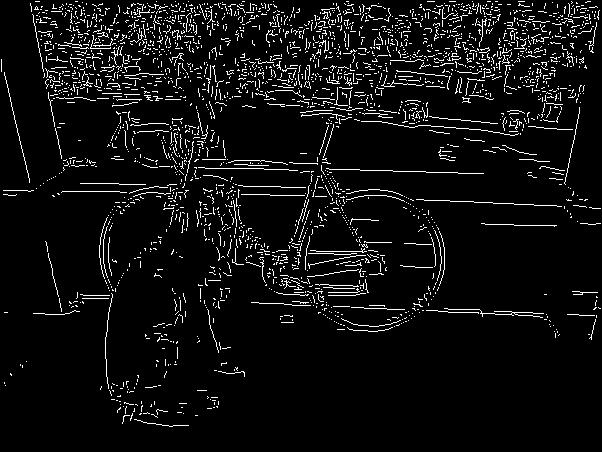
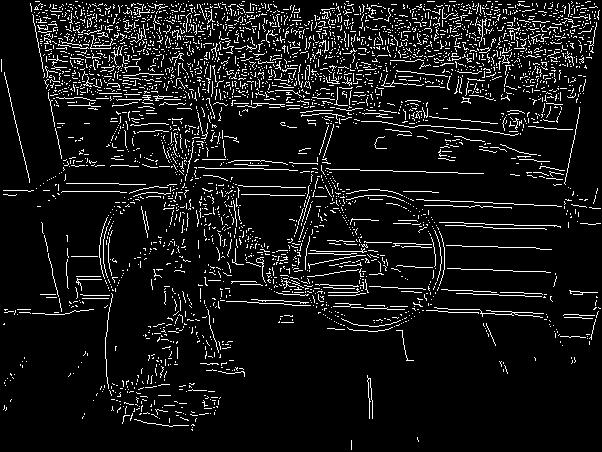
ROI added

diff --git a/6.ROI/ROI.py b/6.ROI/ROI.py
@@ -1,0 +1,50 @@
+from PIL import Image
+import numpy as np
+
+def create_circular_mask(h, w, center=[964,1110], radius=80):
+    Y, X = np.ogrid[:h, :w]
+    dist_from_center = np.sqrt((Y - center[0])**2 + (X-center[1])**2)
+    mask = dist_from_center <= radius
+    return mask
+
+def convolve3d(image, kernel):
+    output = np.zeros_like(image)
+    image_padded = np.zeros((image.shape[0]+kernel.shape[0]-1,image.shape[1] + kernel.shape[1]-1,image.shape[2]))
+    image_padded[kernel.shape[0]-2:-1:,kernel.shape[1]-2:-1:,:] = image
+    image_padded[0,0,:]=image[0,0,:]
+    image_padded[-1,-1,:]=image[-1,-1,:]
+    for x in range(image.shape[1]):
+        for y in range(image.shape[0]):
+            for z in range(image.shape[2]):
+                summation=(kernel * image_padded[y: y+kernel.shape[0], x: x+kernel.shape[1],z]).sum()
+                output[y, x,z]=summation
+    if image.shape[2]==4:
+        output[:,:,3]=image[:,:,3]
+    return output
+
+gaussian_blurr=np.array([[1,  4,  6,  4, 1],
+                         [4, 16, 24, 16, 4],
+                         [6, 24, 36, 24, 6],
+                         [4, 16, 24, 16, 4],
+                         [1,  4,  6,  4, 1]])/256
+
+file_name="roi.jpeg"
+file_name1="logo.png"
+
+im = np.array(Image.open(file_name))
+im=convolve3d(im,gaussian_blurr)
+mask=create_circular_mask(im.shape[0],im.shape[1])
+masked=im.copy()
+masked[~mask]=0
+row_shift=-25
+column_shift=-670
+for i in range(im.shape[0]):
+    for j in range(im.shape[1]):
+        if  masked[i,j,:].all() !=0:
+            masked[i+row_shift,j+column_shift,:]=masked[i,j,:]
+            masked[i,j,:]=0
+            im[i+row_shift,j+column_shift,:]=0
+
+im=np.bitwise_or(im,masked)
+pil_img=Image.fromarray(im.astype(np.uint8))
+pil_img.save('moved.jpeg')

diff --git a/3.Edge_Detection/canny.py b/3.Edge_Detection/canny.py
@@ -69,9 +69,9 @@ def threshold(img, weak,strong,lowThresholdRatio=0.05, highThresholdRatio=0.09):
     weak_i, weak_j = np.where((img <= highThreshold) & (img >= lowThreshold))
     res[strong_i, strong_j] = strong
     res[weak_i, weak_j] = weak
-    return res
+    return (res, weak, strong)
 
-def hysteresis(img, weak, strong):
+def hysteresis(img, weak, strong=255):
     M, N = img.shape  
     for i in range(1, M-1):
         for j in range(1, N-1):
@@ -123,9 +123,9 @@ im=non_max_suppression(im,theta)
 # applying double threshold
 weak=75
 strong=255
-im=threshold(im,weak,strong,0.05,0.15)
+canny_output=threshold(im,weak,strong,0.05,0.09)
 # applying hysteresis
-im=hysteresis(im,weak,strong)
+im=hysteresis(canny_output[0],canny_output[1],canny_output[2])
 
 
 pil_img=Image.fromarray(im).convert('RGB')

diff --git a/3.Edge_Detection/horizontal_edges.py b/3.Edge_Detection/horizontal_edges.py
@@ -6,6 +6,8 @@ def rgb2gray(rgb):
     gray = 0.2989 * r + 0.5870 * g + 0.1140 * b
     return gray
 
+
+
 def convolve3d_grayscale(image, kernel):
     output = np.zeros_like(image)
     image_padded = np.zeros((image.shape[0]+kernel.shape[0]-1,image.shape[1] + kernel.shape[1]-1))
@@ -33,6 +35,7 @@ y_direction_kernel=np.array([[-1,-2,-1],
 
 file_name="edge-detection1.png"
 im = rgb2gray(np.array(Image.open(file_name)))
+intensity = [[sum(im[x, y]) / 3 for y in range(im.shape[1])] for x in range(im.shape[0])]
 im=convolve3d_grayscale(im,gaussian_blurr)
 im=convolve3d_grayscale(im,x_direction_kernel)
 pil_img=Image.fromarray(im).convert('RGB')

diff --git a/3.Edge_Detection/sobel.py b/3.Edge_Detection/sobel.py
@@ -5,6 +5,9 @@ def rgb2gray(rgb):
     r, g, b = rgb[:,:,0], rgb[:,:,1], rgb[:,:,2]
     gray = 0.2989 * r + 0.5870 * g + 0.1140 * b
     return gray
+    
+
+    
 
 def convolve3d_grayscale(image, kernel):
     output = np.zeros_like(image)
